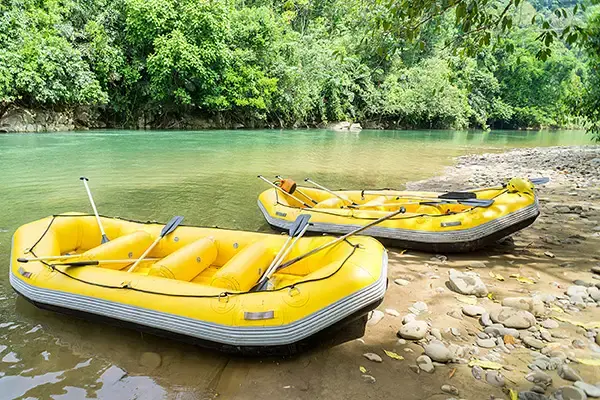
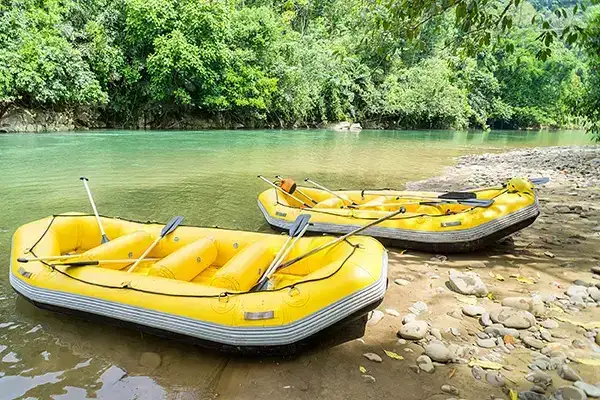
last optimize

diff --git a/wwr/about.html b/wwr/about.html
@@ -32,7 +32,7 @@
             <img src="images/hero-image.webp" alt="banner image">
             <h1>White Water Rafting</h1>
             <article>
-                <img src="images/article-image.jpg" alt="happy clients">
+                <img src="images/article-image.webp" alt="happy clients">
                 <p>The World's Best Water Rafting. Lorem ipsum dolor sit amet consectetur adipisicing elit. Quis in
                     quaerat temporibus suscipit amet, magni rerum enim eum quidem aspernatur minus nulla aliquid saepe
                     repellendus repudiandae facilis dolores? Vitae, adipisci!</p>
